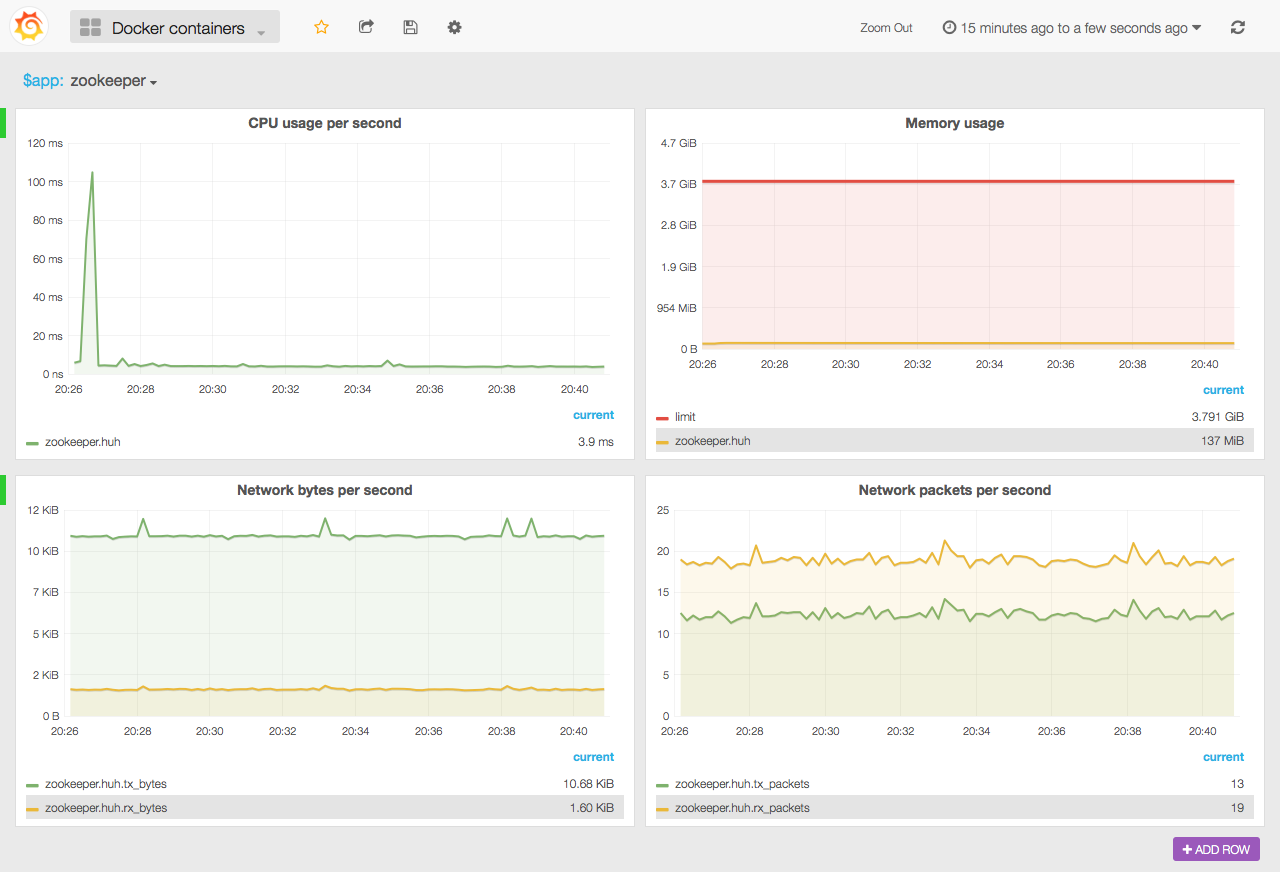
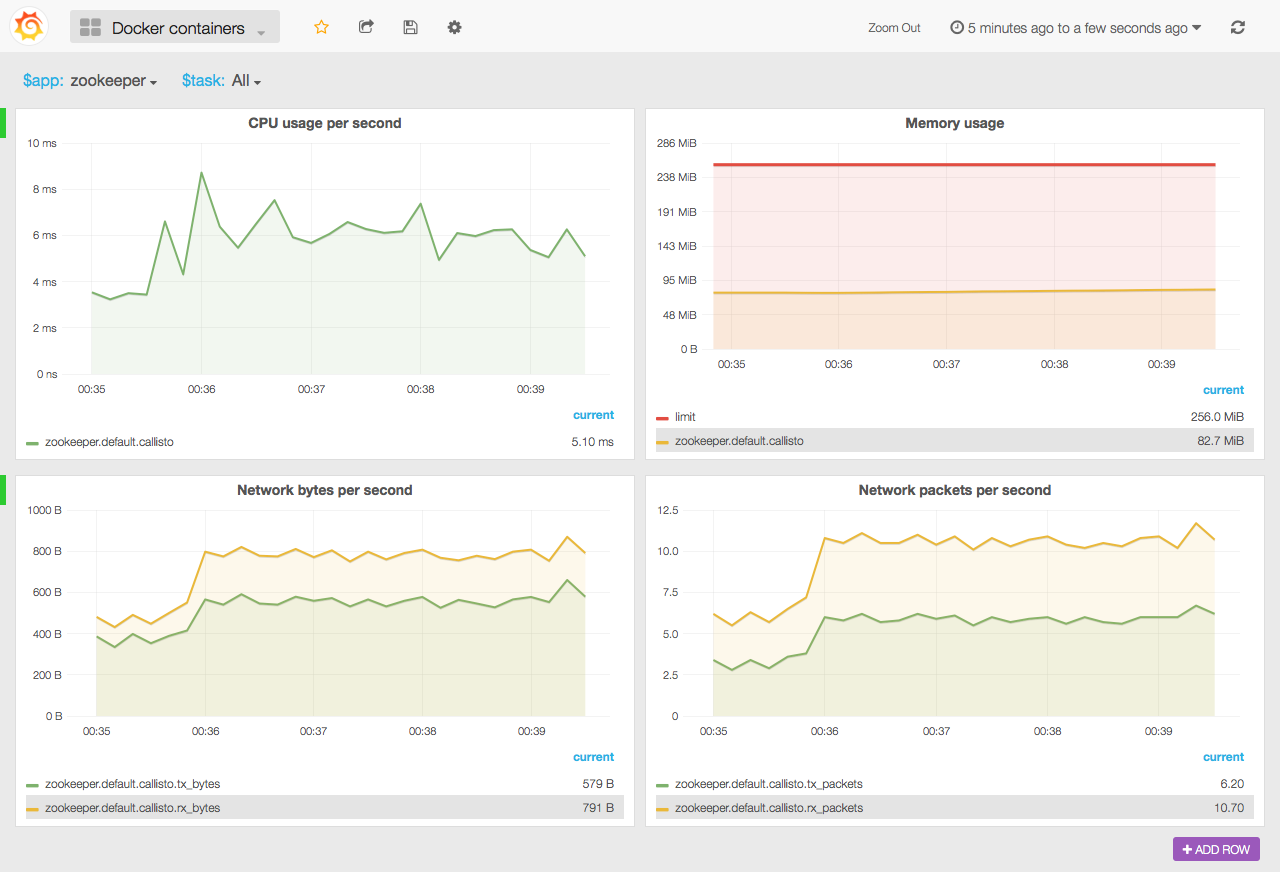
Collecting metrics per task

diff --git a/collector/monitor.go b/collector/monitor.go
@@ -7,15 +7,24 @@ import (
 	"github.com/fsouza/go-dockerclient"
 )
 
+const appLabel = "collectd_docker_app"
+const taskLabel = "collectd_docker_task"
+
+const appEnvPrefix = "COLLECTD_DOCKER_APP="
+const taskEvnPrefix = "COLLECTD_DOCKER_TASK="
+
+const defaultTask = "default"
+
 // ErrNoNeedToMonitor is used to skip containers
 // that shouldn't be monitored by collectd
 var ErrNoNeedToMonitor = errors.New("container is not supposed to be monitored")
 
-// Monitor is responsible for monitoring of a single container
+// Monitor is responsible for monitoring of a single container (task)
 type Monitor struct {
 	client   *docker.Client
 	id       string
 	app      string
+	task     string
 	interval int
 }
 
@@ -27,15 +36,18 @@ func NewMonitor(c *docker.Client, id string, interval int) (*Monitor, error) {
 		return nil, err
 	}
 
-	app := extractCollectdApp(container)
+	app := extractApp(container)
 	if app == "" {
 		return nil, ErrNoNeedToMonitor
 	}
+
+	task := extractTask(container)
 
 	return &Monitor{
 		client:   c,
 		id:       container.ID,
 		app:      app,
+		task:     task,
 		interval: interval,
 	}, nil
 }
@@ -53,6 +65,7 @@ func (m *Monitor) handle(ch chan<- Stats) error {
 
 			ch <- Stats{
 				App:   m.app,
+				Task:  m.task,
 				Stats: *s,
 			}
 
@@ -66,16 +79,24 @@ func (m *Monitor) handle(ch chan<- Stats) error {
 	})
 }
 
-func extractCollectdApp(c *docker.Container) string {
-	if app, ok := c.Config.Labels["collectd_app"]; ok {
+func extractApp(c *docker.Container) string {
+	return extractMetadata(c, appLabel, appEnvPrefix, "")
+}
+
+func extractTask(c *docker.Container) string {
+	return extractMetadata(c, taskLabel, taskEvnPrefix, defaultTask)
+}
+
+func extractMetadata(c *docker.Container, label, envPrefix, missing string) string {
+	if app, ok := c.Config.Labels[label]; ok {
 		return app
 	}
 
 	for _, e := range c.Config.Env {
-		if strings.HasPrefix(e, "COLLECTD_APP=") {
-			return strings.TrimPrefix(e, "COLLECTD_APP=")
+		if strings.HasPrefix(e, envPrefix) {
+			return strings.TrimPrefix(e, envPrefix)
 		}
 	}
 
-	return ""
+	return missing
 }

diff --git a/collector/writer.go b/collector/writer.go
@@ -5,7 +5,7 @@ import (
 	"io"
 )
 
-const collectdIntGaugeTemplate = "PUTVAL %s/docker_stats-%s/gauge-%s %d:%d\n"
+const collectdIntGaugeTemplate = "PUTVAL %s/docker_stats-%s.%s/gauge-%s %d:%d\n"
 
 // CollectdWriter is responsible for writing data
 // to wrapped writer in collectd exec plugin format
@@ -65,7 +65,7 @@ func (w CollectdWriter) writeInts(s Stats) error {
 	t := s.Stats.Read.Unix()
 
 	for k, v := range metrics {
-		err := w.writeInt(s.App, k, t, v)
+		err := w.writeInt(s, k, t, v)
 		if err != nil {
 			return err
 		}
@@ -74,8 +74,8 @@ func (w CollectdWriter) writeInts(s Stats) error {
 	return nil
 }
 
-func (w CollectdWriter) writeInt(a, k string, t, v int64) error {
-	msg := fmt.Sprintf(collectdIntGaugeTemplate, w.host, a, k, t, v)
+func (w CollectdWriter) writeInt(s Stats, k string, t, v int64) error {
+	msg := fmt.Sprintf(collectdIntGaugeTemplate, w.host, s.App, s.Task, k, t, v)
 	_, err := w.writer.Write([]byte(msg))
 	return err
 }

diff --git a/collector/stats.go b/collector/stats.go
@@ -2,8 +2,9 @@ package collector
 
 import "github.com/fsouza/go-dockerclient"
 
-// Stats represents singe stat from docker stats api for specific app
+// Stats represents singe stat from docker stats api for specific task
 type Stats struct {
 	App   string
+	Task  string
 	Stats docker.Stats
 }

diff --git a/README.md b/README.md
@@ -4,8 +4,14 @@ This is collectd plugin and docker image to collect resource usage
 from docker containers. Resource usage collected from `docker stats` API
 and sent to graphite installation.
 
-Yu have to add `collectd_app` label or `COLLECTD_APP` env varialbe
-with the application name to your containers to make it visible in graphite.
+This plugin treats containers as tasks that run as parts of apps.
+To set an application name, you should set label `collectd_docker_app`
+or env variable `COLLECTD_DOCKER_APP` to the application name.
+To set a task name,you should set label `collectd_docker_task`
+or env variable `COLLECTD_DOCKER_TASK` to the task name. Task name
+is optional and only useful when you can run several instances of
+the same application on the same host. With task name you could
+see metrics of individual containers.
 
 Containers can be added and removed on the fly, no need to restart collectd.
 
@@ -14,7 +20,7 @@ Containers can be added and removed on the fly, no need to restart collectd.
 Metric names look line this:
 
 ```
-collectd.<host>.docker_stats.<app>.<type>.<metric>
+collectd.<host>.docker_stats.<app>.<task>.<type>.<metric>
 ```
 
 Gauges:
@@ -63,46 +69,46 @@ Grafana 2 [dashboard](grafana2.json) is included.
 
 #### Graphite metrics extracted from the dashboard
 
-* CPU usage
+* CPU usage per second
 
 ```
-aliasByNode(scaleToSeconds(derivative(collectd.*.docker_stats.$app.gauge.cpu.total), 1), 3, 1)
+aliasByNode(scaleToSeconds(derivative(collectd.*.docker_stats.$app.$task.gauge.cpu.total), 1), 3, 4, 1)
 ```
 
 * Memory limit
 
 ```
-alias(averageSeries(collectd.*.docker_stats.$app.gauge.memory.limit), 'limit')
+alias(averageSeries(collectd.*.docker_stats.$app.$task.gauge.memory.limit), 'limit')
 ```
 
 * Memory usage
 
 ```
-aliasByNode(collectd.*.docker_stats.$app.gauge.memory.usage, 3, 1)
+aliasByNode(collectd.*.docker_stats.$app.$task.gauge.memory.usage, 3, 4, 1)
 ```
 
 * Network bytes per second tx
 
 ```
-aliasByNode(scaleToSeconds(derivative(collectd.*.docker_stats.$app.gauge.net.tx_bytes), 1), 3, 1, 6)
+aliasByNode(scaleToSeconds(derivative(collectd.*.docker_stats.$app.$task.gauge.net.tx_bytes), 1), 3, 4, 1, 7)
 ```
 
-* Network bytes per second tx
+* Network bytes per second rx
 
 ```
-aliasByNode(scaleToSeconds(derivative(collectd.*.docker_stats.$app.gauge.net.rx_bytes), 1), 3, 1, 6)
+aliasByNode(scaleToSeconds(derivative(collectd.*.docker_stats.$app.$task.gauge.net.rx_bytes), 1), 3, 4, 1, 7)
 ```
 
 * Network packets per second tx
 
 ```
-aliasByNode(scaleToSeconds(derivative(collectd.*.docker_stats.$app.gauge.net.tx_packets), 1), 3, 1, 6)
+aliasByNode(scaleToSeconds(derivative(collectd.*.docker_stats.$app.$task.gauge.net.tx_packets), 1), 3, 4, 1, 7)
 ```
 
 * Network packets per second rx
 
 ```
-aliasByNode(scaleToSeconds(derivative(collectd.*.docker_stats.$app.gauge.net.rx_packets), 1), 3, 1, 6)
+aliasByNode(scaleToSeconds(derivative(collectd.*.docker_stats.$app.$task.gauge.net.rx_packets), 1), 3, 4, 1, 7)
 ```
 
 ## Running
@@ -111,12 +117,14 @@ Minimal command:
 
 ```
 docker run -d -v /var/run/docker.sock:/var/run/docker.sock \
-    GRAPHITE_HOST=<graphite host> -e  COLLECTD_HOST=<colllectd host> \
-    bobrik/collectd-docker
+    -e GRAPHITE_HOST=<graphite host> -e COLLECTD_HOST=<colllectd host> \
+    -e COLLECTD_DOCKER_APP=<app name> bobrik/collectd-docker
 ```
 
 ### Environment variables
 
+* `COLLECTD_DOCKER_APP` - graphite-friendly application name.
+* `COLLECTD_DOCKER_TASK` - graphite-friendly task name, defaults to `default`.
 * `COLLECTD_HOST` - host to use in metric name.
 * `COLLECTD_INTERVAL` - metric update interval in seconds, defaults to `10`.
 * `GRAPHITE_HOST` - host where carbon is listening for data.
